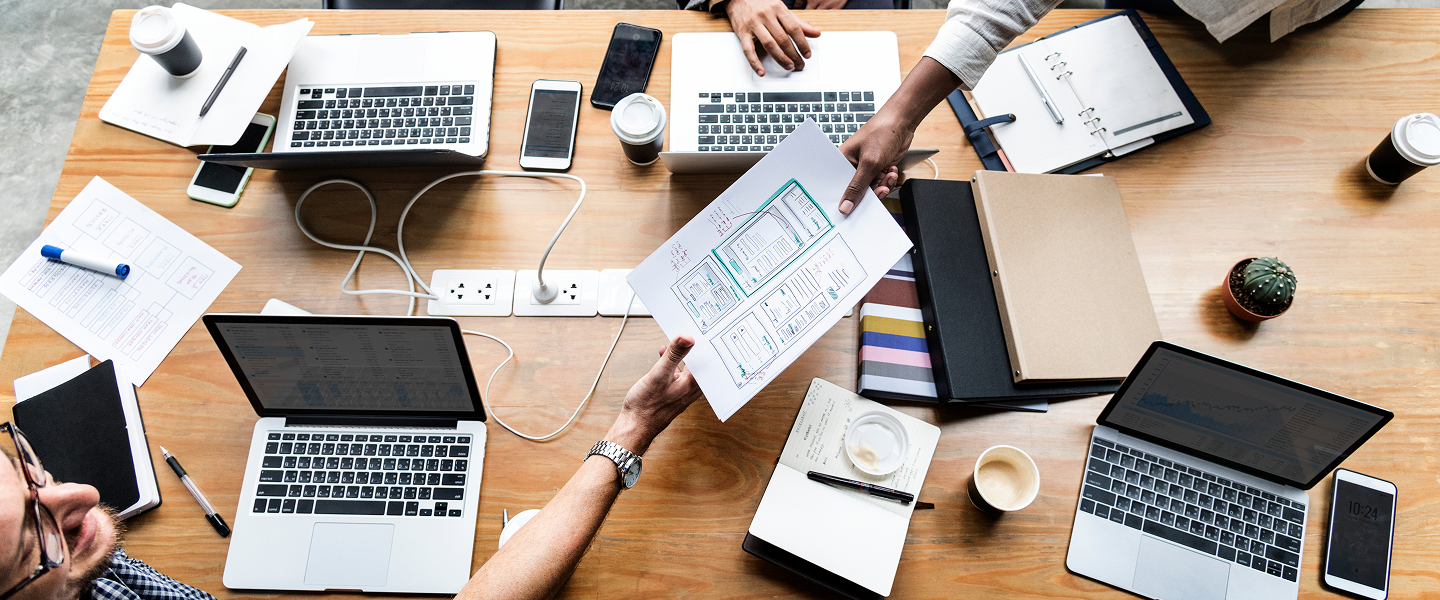
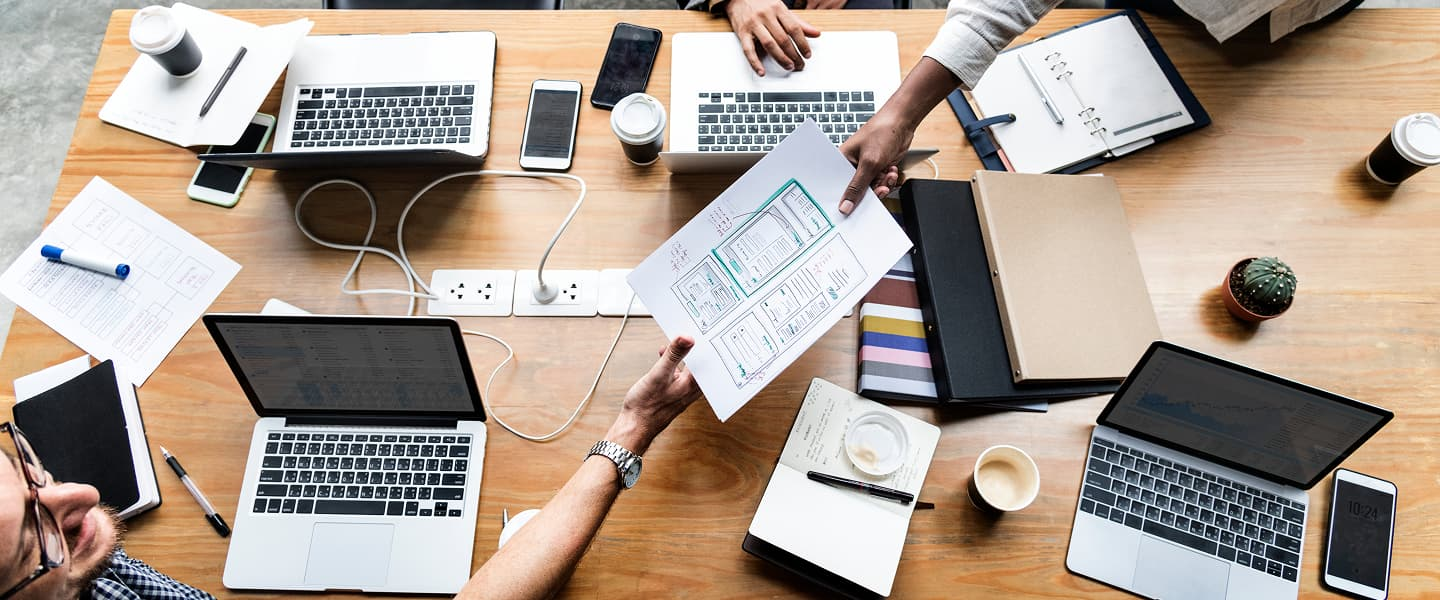
changes after check

diff --git a/css/style.css b/css/style.css
@@ -75,14 +75,12 @@ img {
 /*general settings*/
 
 .header{
-    height: 72px;
     background-color: #FFFFFF;
     border-bottom: 1px solid #e7e9fc;
     box-shadow: 0px 2px 1px rgba(46, 47, 66, 0.08), 0px 1px 1px rgba(46, 47, 66, 0.16), 0px 1px 6px rgba(46, 47, 66, 0.08);
 }
 
 .header .container {
-    height: 100%;
     display: flex;
     align-items: center;
     justify-content:  space-between;
@@ -93,11 +91,6 @@ img {
     align-items: center;
     justify-content:  center;
     flex-wrap: wrap;
-    height:  100%;
-}
-
-.list-item{
-    height: 100%;
 }
 
 .list-item:not(:last-child){
@@ -132,19 +125,15 @@ img {
 .list-item .current{
     color: #404bbf;
 }
-.list-item-nav{
-    /*padding:24px 0;*/
+.list-item-nav , .contact{
+    padding:24px 0;
     text-decoration:  none;
     color:  #2e2f42;
 }
 
 .list-item a{
-    display: flex;
-    justify-content: center;
-    align-items: center;
+    display: block;
     position: relative;
-    height: 100%;
-    /*transition: 250ms cubic-bezier(0.4, 0, 0.2, 1) ;*/
     transition-property: color;
     transition-duration: 250ms;
     transition-timing-function: cubic-bezier(0.4, 0, 0.2, 1);
@@ -194,7 +183,6 @@ img {
 
 }
 .hero {
-    max-height: 600px;
     max-width: 1440px;
     margin: 0 auto;
     padding: 188px 0;
@@ -211,7 +199,6 @@ img {
     align-items:  center;
     gap: 48px;
     flex-wrap: wrap;
-
 }
 
 .order-service {
@@ -266,10 +253,6 @@ img {
     line-height: 1.2;
     color: #2e2f42;
     letter-spacing: 0.02em;
-}
-
-.benefits .container{
-    height: 100%;
 }
 
 .benefits .benefits-list {
@@ -335,26 +318,19 @@ img {
 
 .social-icon-link{
     display: flex;
-    justify-content: center;
     align-items: center;
+    justify-content:  center;
     border-radius: 50%;
     overflow: hidden;
     transition-property: background-color;
     transition-duration: 250ms;
     transition-timing-function: cubic-bezier(0.4, 0, 0.2, 1);
     background-color: #4d5ae5;
-    width: 100%;
-    height:  100%;
-}
-
-.social-list-item{
     width: 40px;
     height: 40px;
 }
 
-.icon-social {
-    width: 40px;
-    height: 40px;
+.icon-social{
     fill: #f4f4fd;
 }
 

diff --git a/index.html b/index.html
@@ -369,3 +369,4 @@
 </footer>
 </body>
 </html>
+
